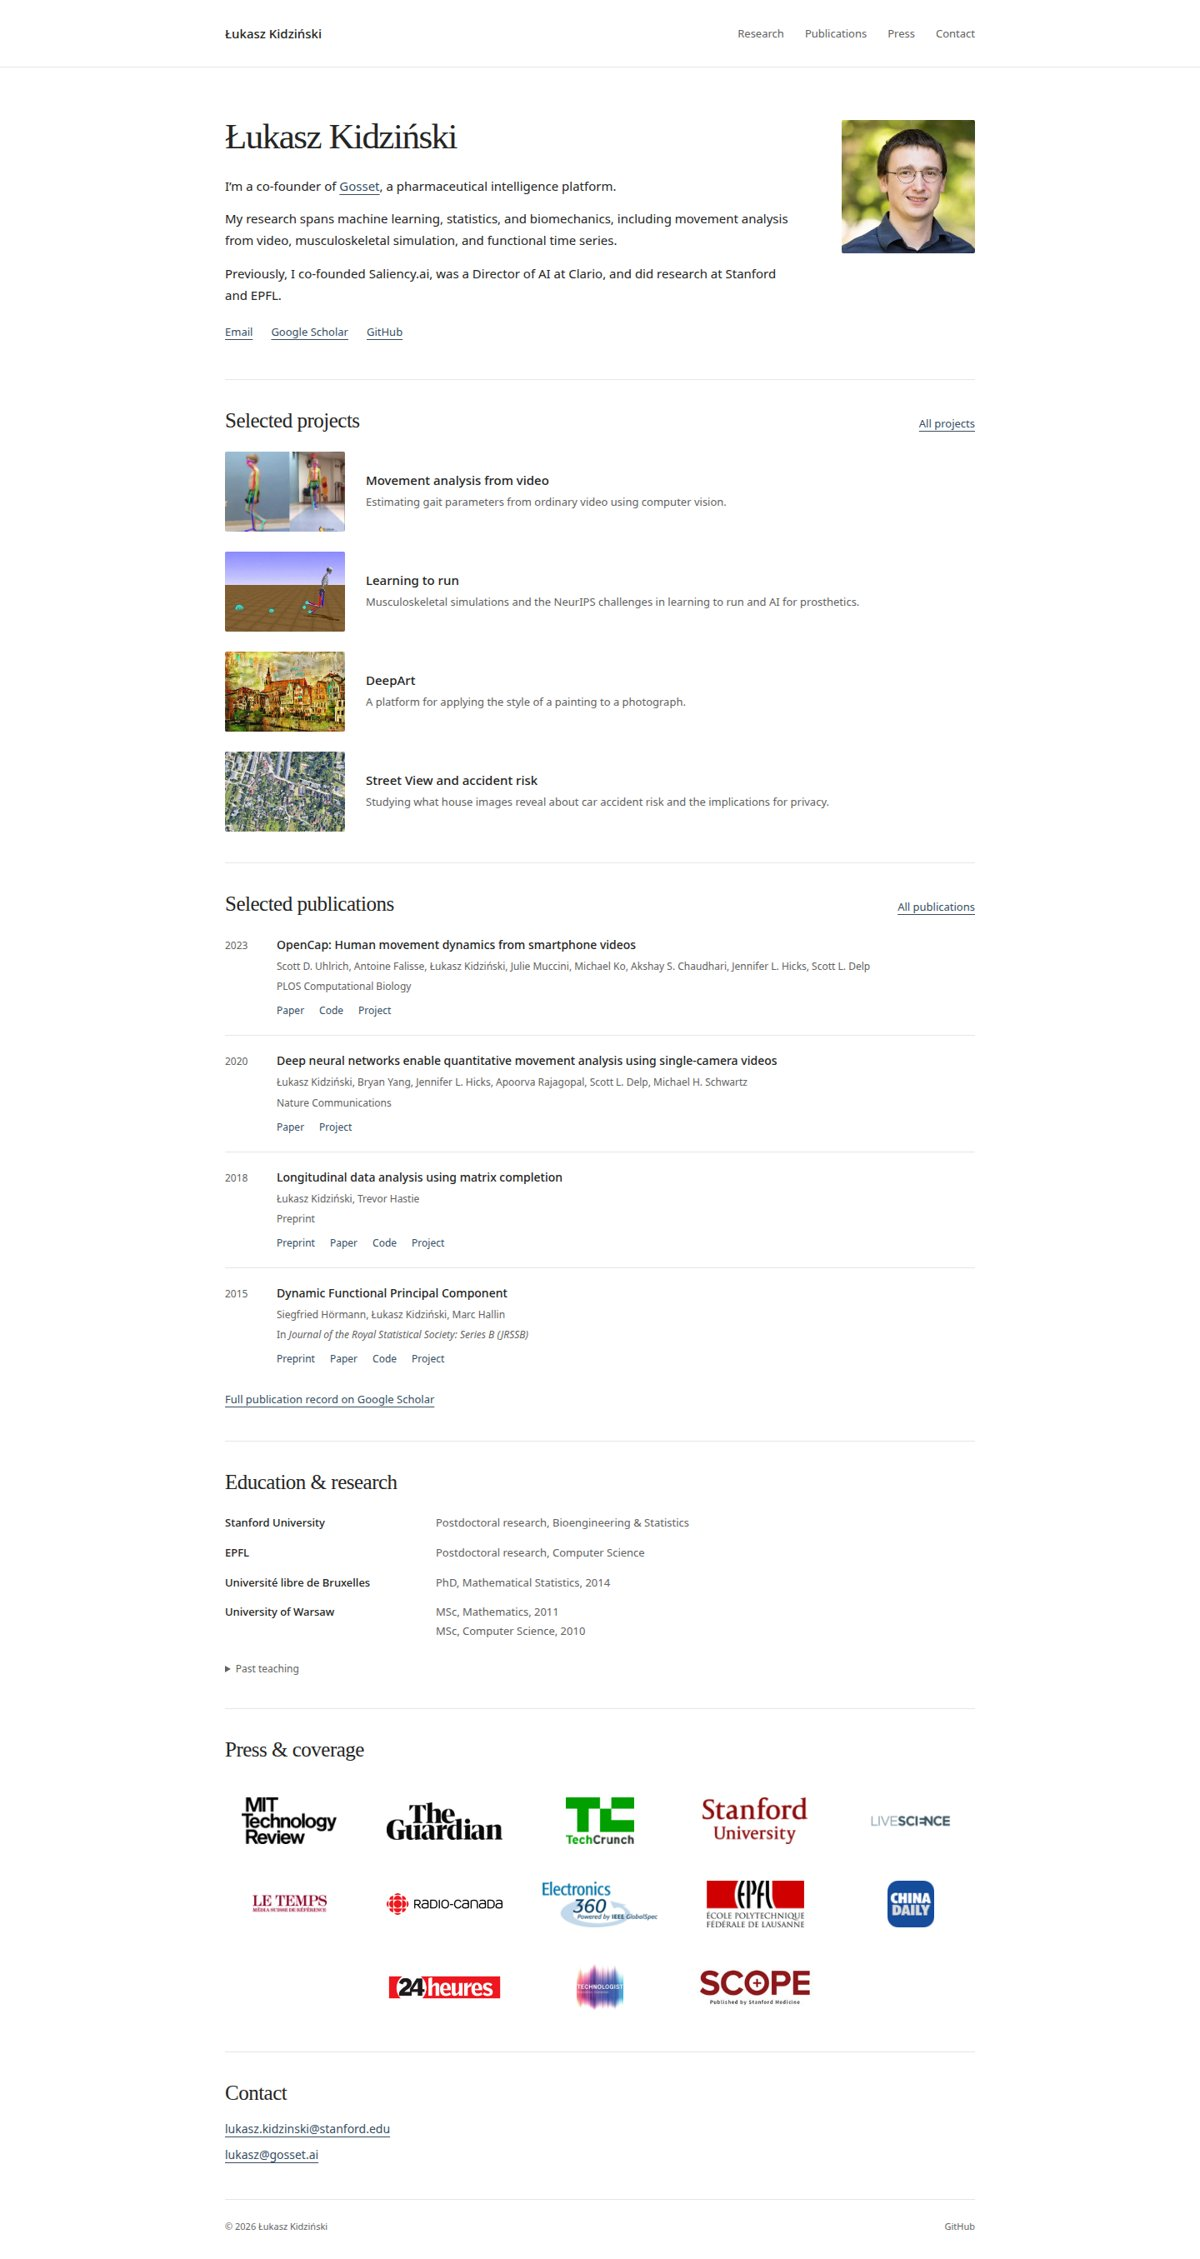
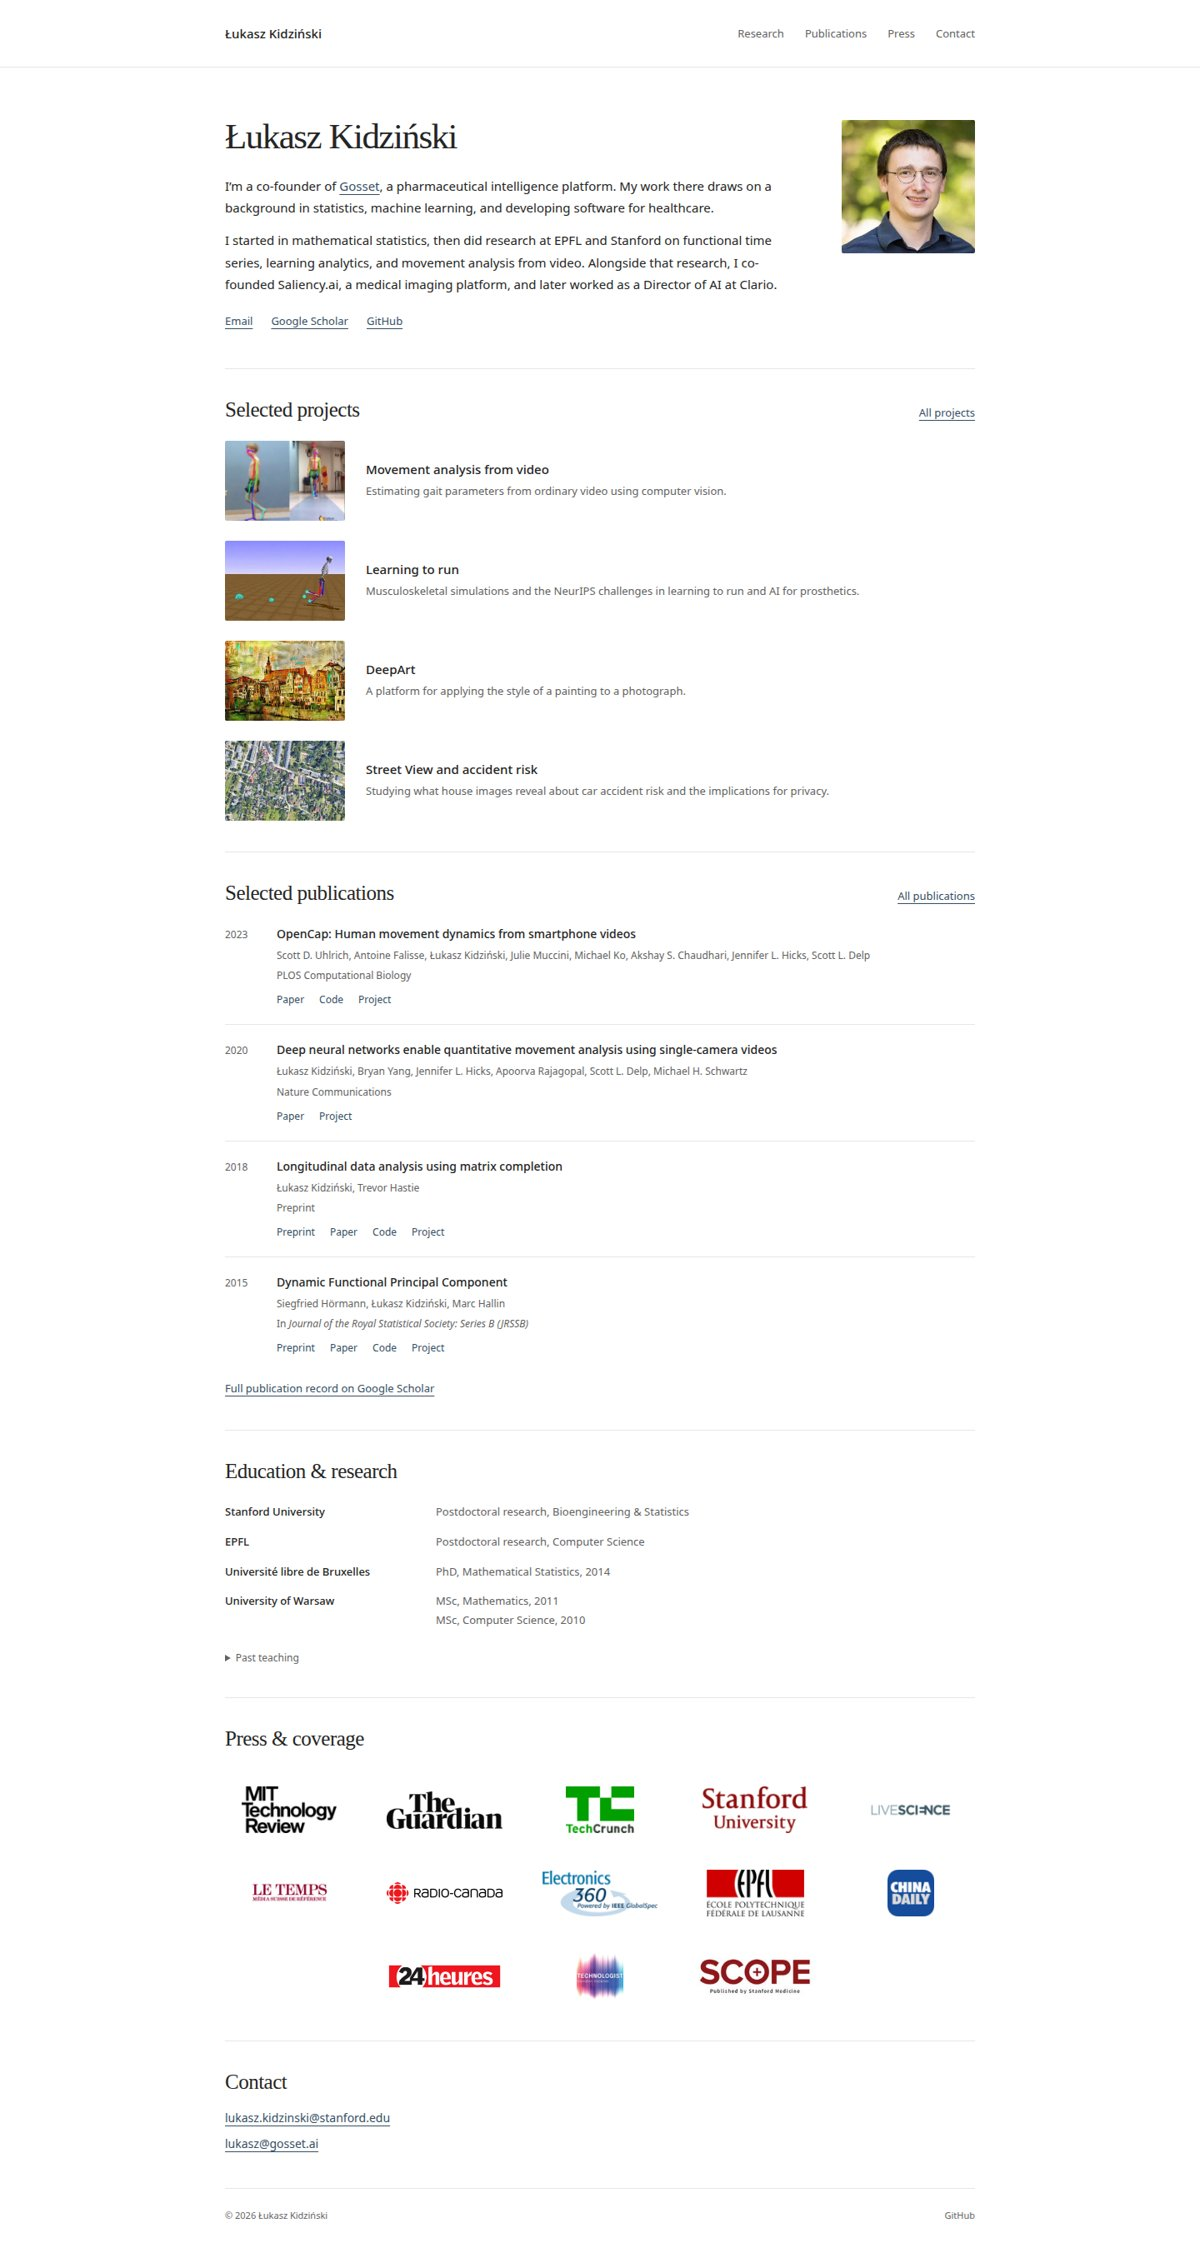
Connect founder experience and research in the biography

diff --git a/layouts/home.html b/layouts/home.html
@@ -4,9 +4,8 @@
   <h1 id="intro-title">Łukasz Kidziński</h1>
   <img class="portrait" src="{{ "img/modern/portrait.webp" | relURL }}" width="160" height="160" alt="Łukasz Kidziński" fetchpriority="high">
   <div class="intro-copy">
-    <p id="work">I’m a co-founder of <a href="https://gosset.ai/">Gosset</a>, a pharmaceutical intelligence platform.</p>
+    <p id="work">I’m a co-founder of <a href="https://gosset.ai/">Gosset</a>, a pharmaceutical intelligence platform. My work there draws on a background in statistics, machine learning, and developing software for healthcare.</p>
     <p>{{ $home.intro }}</p>
-    <p>Previously, I co-founded Saliency.ai, was a Director of AI at Clario, and did research at Stanford and EPFL.</p>
     <div class="profile-links"><a href="mailto:{{ site.Params.email }}">Email</a><a href="{{ site.Params.scholar }}">Google Scholar</a><a href="{{ site.Params.github }}">GitHub</a></div>
   </div>
 </section>
